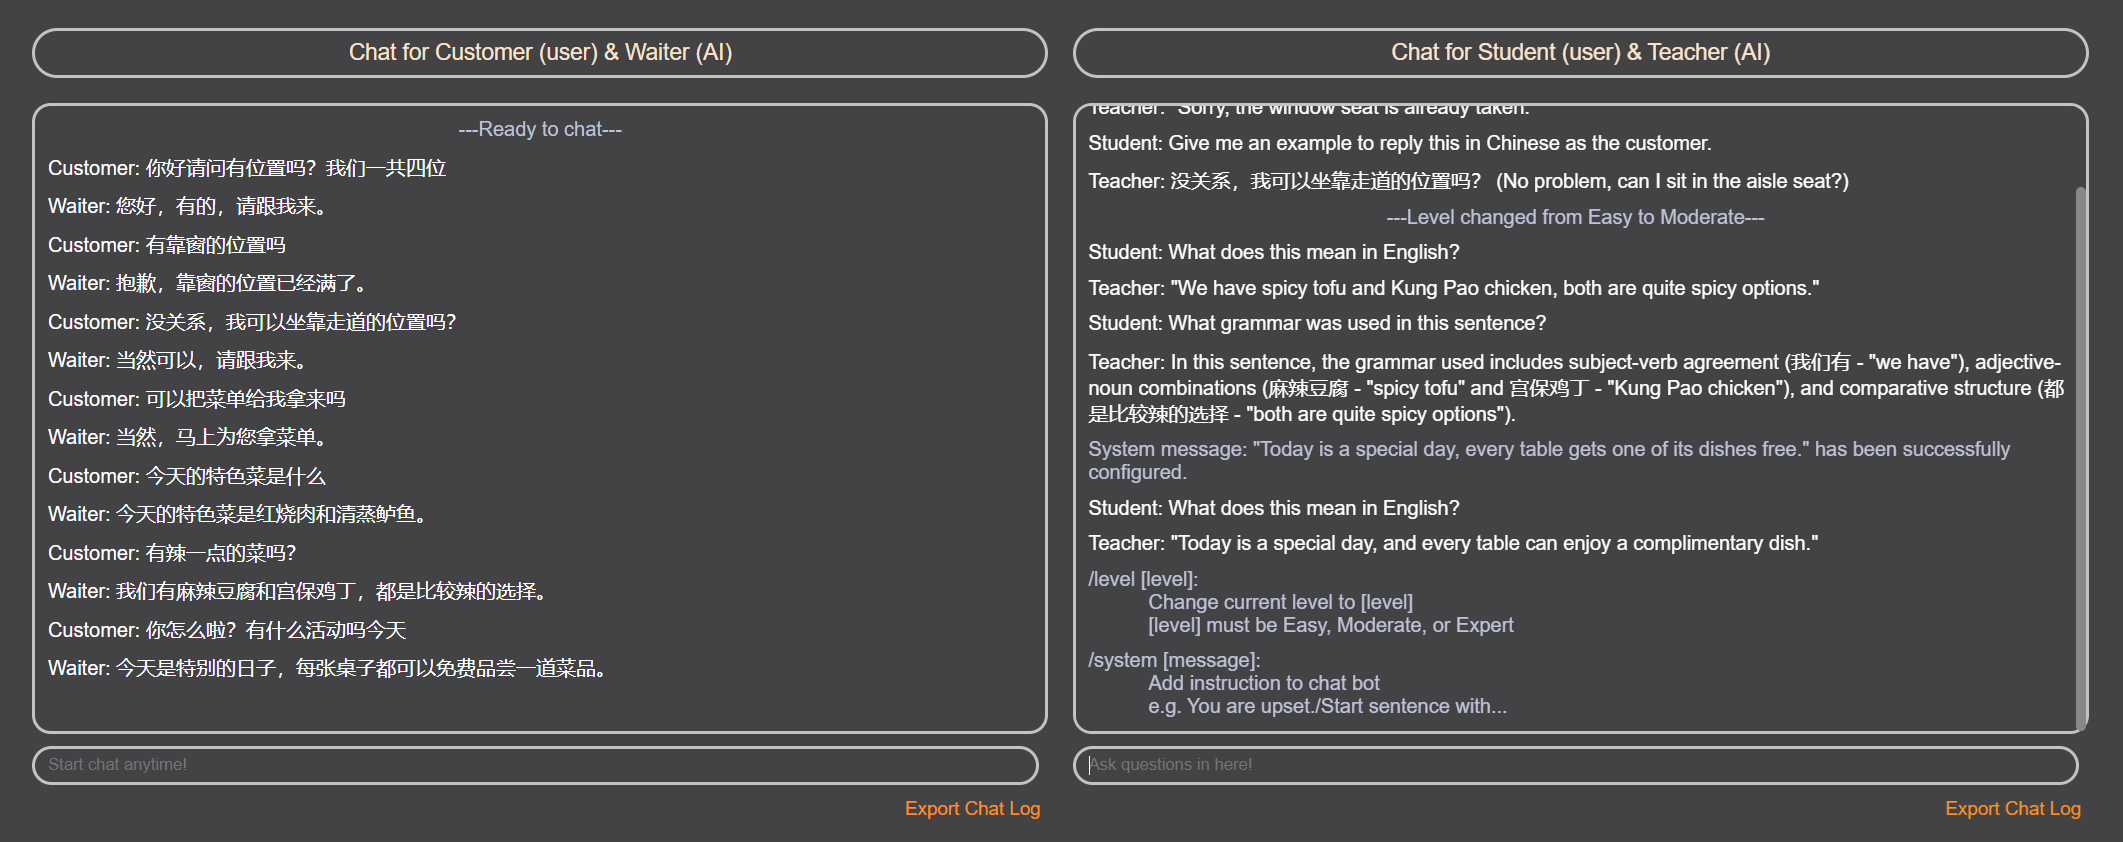
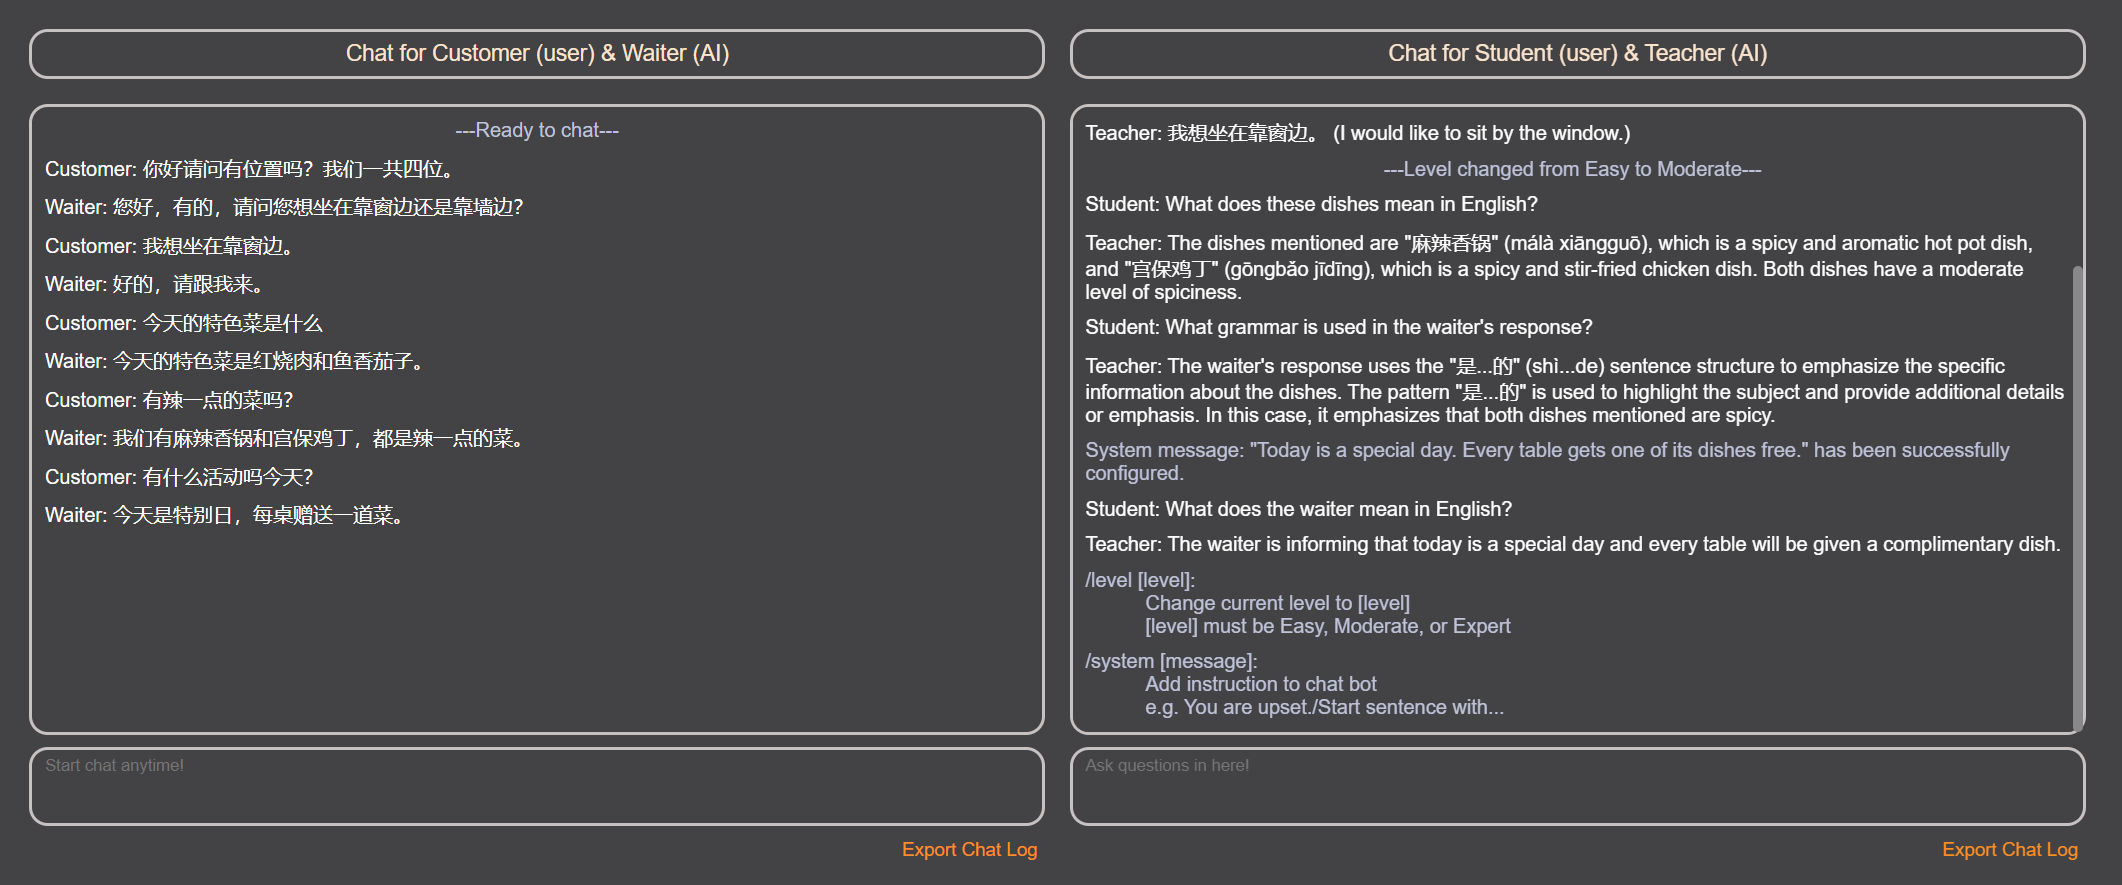
Added features
1. Made input scrollable.
2. Added refresh button.
3. Updated readme.html due to changes made in the UI

Changed region(s): [[0.0, 0.0309, 0.9953, 0.9881], [0.902, 0.9264, 0.9953, 0.9881]]

diff --git a/static/js/main.js b/static/js/main.js
@@ -93,19 +93,46 @@ function setupConfig() {
    }
 }
 
-// Normalize user input to have first letter capitalized, and the rest all lower case:
-function normalizeString(input) {
-   input = input.toLowerCase();
-   return input.charAt(0).toUpperCase() + input.slice(1);
-}
-
-// When user click the "Restart" button:
+// When user clicks the "Restart" button:
 function resetConfig() {
    // Hide the two chat windows:
    $(".chat-box-container").css("visibility", "hidden");
 
    // Refresh page:
    window.location.reload();
+}
+
+// When user clicks the "Renew" button:
+function refreshConfig() {
+   // First clear all old arrays:
+   leftChatLog = new Array();
+   rightChatLog = new Array();
+   leftExportLog = new Array();
+   rightExportLog = new Array();
+   // Add initial log message in the export log arrays:
+   leftExportLog.push("This is the chat log history between " + userRole + " (user) and " + aiRole + " (AI) at the " + chatContext + " in " + chatLanguage + ".\n");
+   rightExportLog.push("This is the chat log history between Student (user) and Teacher (AI).\n");
+
+   // Second clear all variables to initial state:
+   prevLeftAssistantMessage = "";
+   leftCounter = 3; 
+   updatedLeftMessage = false; 
+
+   // Third, clean chat box and input content:
+   $('#chatBox1').empty();
+   $('#chatBox2').empty();
+   $('#inputBox1').empty();
+   $('#inputBox2').empty();
+
+   // Finally, add the initial message in each chat box:
+   $('#chatBox1').append(`<div class="chat-box-header-message">---Ready to chat---</div>`);
+   $('#chatBox2').append(`<div class="chat-box-header-message">---Type "/help" to see more instructions---</div>`);
+}
+
+// Normalize user input to have first letter capitalized, and the rest all lower case:
+function normalizeString(input) {
+   input = input.toLowerCase();
+   return input.charAt(0).toUpperCase() + input.slice(1);
 }
 
 // Add user input message to chatbox:
@@ -152,7 +179,13 @@ function addSystemMessage(message, caseNumber) {
 
 // Enables the click/enter button function to input a message:
 function enterMessage(event, chatBoxNumber) {
-   if (event.keyCode === 13) {
+   // new line with shift + enter:
+   if (event.keyCode === 13 && event.shiftKey) {
+      if (event.type == "keypress") {
+         pasteIntoInput(this, "\n");
+      }
+      event.preventDefault();
+   } else if (event.keyCode === 13) {
       event.preventDefault();
       sendMessage(chatBoxNumber);
    }
@@ -479,8 +512,12 @@ function startTour() {
             intro: "You can download your chat history anytime."
          },
          {
+            element: document.querySelector('#refresh-button'),
+            intro: "You can clear your current chat history and restart it with the same Settings."
+         },
+         {
             element: document.querySelector('#restart-button'),
-            intro: "When you're done with the current chat, click here to restart everything!"
+            intro: "Wanna try something new? <br><br>You can reset everything!"
          }
       ]
    }).start();

diff --git a/templates/readme.html b/templates/readme.html
@@ -33,11 +33,11 @@
    <div class="description-text">Once thats's done. You can find those two buttons:</div>
    <img class="demo-img" src="{{ url_for('chatlang.static', filename='images/readme/header_button.png') }}">
    <div class="description-text">
-      You can click the <span class="description-text-bold">Restart</span> button to reset the page. 
-      Click the <span class="description-text-bold">Let's Go!</span> button, you will see the two chat windows appear:
+      <span class="description-text-bold">Refresh Chat</span> clears the current chat history and starts a new chat under the same settings. 
+      <span class="description-text-bold">Start Over</span> allows you reset everything. 
    </div>
    <div class="description-text">
-      The headers show your (user) role and the AI's role in each chat window.
+      Click the <span class="description-text-bold">Let's Go!</span> button, you will see the two chat windows appear. The headers show your (user) role and the AI's role in each chat window.
    </div>
    <img class="demo-img-chat" src="{{ url_for('chatlang.static', filename='images/readme/chat_start.png') }}">
    <div class="description-text">
@@ -82,11 +82,11 @@
    <div class="description-text">
       Install the requirements:
    </div>
-   <img class="demo-img-api" src="{{ url_for('chatlang.static', filename='images/readme/api_setup_1.png') }}">
+   <img class="demo-img-api-1" src="{{ url_for('chatlang.static', filename='images/readme/api_setup_1.png') }}">
    <div class="description-text">
       Set up your local API keys by copying <span class="description-text-bold">.env.example</span> to <span class="description-text-bold">.env</span> and filling in the values.
    </div>
-   <img class="demo-img-api" src="{{ url_for('chatlang.static', filename='images/readme/api_setup_2.png') }}">
+   <img class="demo-img-api-2" src="{{ url_for('chatlang.static', filename='images/readme/api_setup_2.png') }}">
 
    <div class="description-text">
       <br>There you have it! We hope you like it!<br><br><br>

diff --git a/templates/index.html b/templates/index.html
@@ -75,7 +75,8 @@
    <!-- Two buttons -->
    <div class="button-container">
       <button class="config-button" id="start-button" form="info-form" onclick="setupConfig()">Let's Go!</button>
-      <button class="config-button" id="restart-button" onclick="resetConfig()">Restart</button>
+      <button class="config-button" id="refresh-button" onclick="refreshConfig()">Refresh Chat</button>
+      <button class="config-button" id="restart-button" onclick="resetConfig()">Start Over</button>
    </div>
 
    <!-- Here are the two chat windows with separate user input box right below each chat window -->
@@ -86,7 +87,7 @@
             <div class="chat-box-header-message">---Ready to chat---</div>
          </div>    
          <div class="user-input">
-            <input type="text" id="inputBox1" placeholder="Start chat anytime!" onkeypress="enterMessage(event, 1)">
+            <textarea type ="text" id="inputBox1" rows="3" placeholder="Start chat anytime!" onkeypress="enterMessage(event, 1)"></textarea>
          </div>
          <div class="export-button-container">
             <button class="export-button" id="export-button-1" onclick="generateLogFile(1)">Export Chat Log</button>
@@ -98,7 +99,7 @@
             <div class="chat-box-header-message">---Type "/help" to see more instructions---</div>
          </div>
          <div class="user-input">
-            <input type="text" id="inputBox2" placeholder="Ask questions in here!" onkeypress="enterMessage(event, 2)">
+            <textarea type ="text" id="inputBox2" rows="3" placeholder="Ask questions in here!" onkeypress="enterMessage(event, 2)"></textarea>
          </div>
          <div class="export-button-container">
             <button class="export-button" id="export-button-2" onclick="generateLogFile(2)">Export Chat Log</button>

diff --git a/static/css/indexstyle.css b/static/css/indexstyle.css
@@ -181,7 +181,7 @@ button.config-button:hover {
    text-align: center;
    color: rgb(251, 227, 204);
    border: 3px solid #c7c1c1;
-   border-radius: 25px;
+   border-radius: 15px;
    margin-bottom: 20px;
    padding: 7px;
    font-size: 18px;
@@ -208,23 +208,28 @@ button.config-button:hover {
 
 /* Input box style */
 .user-input {
+   display: flex;
    margin-top: 10px;
-   width: 97%;
+   width: 100%;
 }
-.user-input input[type="text"] {
+.user-input textarea {
    padding-left: 10px;
    padding-right: 10px;
    padding-top: 5px;
    padding-bottom: 5px;
-   width: 99%;
+   width: 100%;
    border: 3px solid #c7c1c1;
-   border-radius: 25px;
+   border-radius: 15px;
    background-color: #434345;
    color: rgb(255, 255, 255);
+   resize: none;
    font-family: 'Pacifico', sans-serif;
 }
-.user-input input[type="text"]:focus {
+.user-input textarea:focus {
    outline: none;
+}
+.user-input textarea::-webkit-scrollbar {
+   width: 0;
 }
 
 /* Chat export button style */

diff --git a/static/css/readmestyle.css b/static/css/readmestyle.css
@@ -37,7 +37,7 @@ body {
    margin-bottom: 10px;
 }
 .demo-img-log-1 {
-   height: 300px;
+   height: 200px;
    width: auto;
    margin-bottom: 10px;
 }
@@ -46,8 +46,13 @@ body {
    width: auto;
    margin-bottom: 10px;
 }
-.demo-img-api {
-   height: 70px;
+.demo-img-api-1 {
+   height: 60px;
+   width: auto;
+   margin-bottom: 10px;
+}
+.demo-img-api-2 {
+   height: 56px;
    width: auto;
    margin-bottom: 10px;
 }
